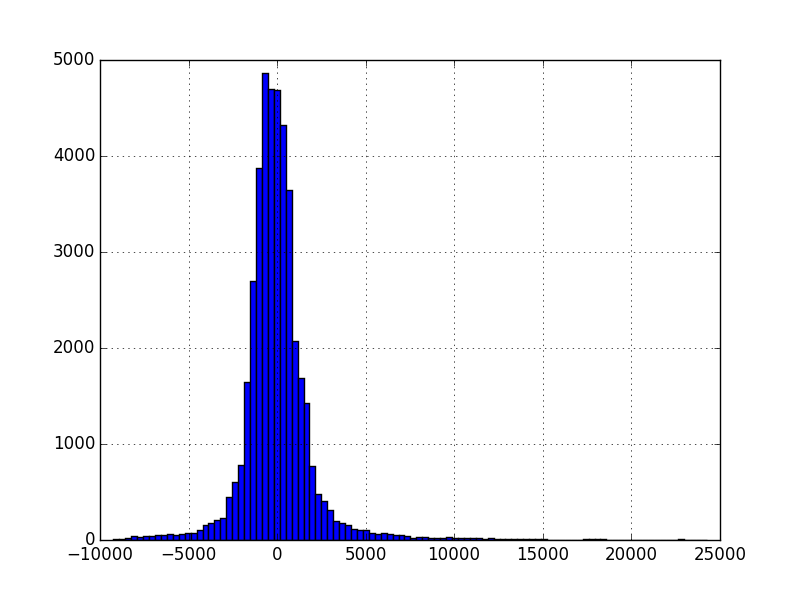
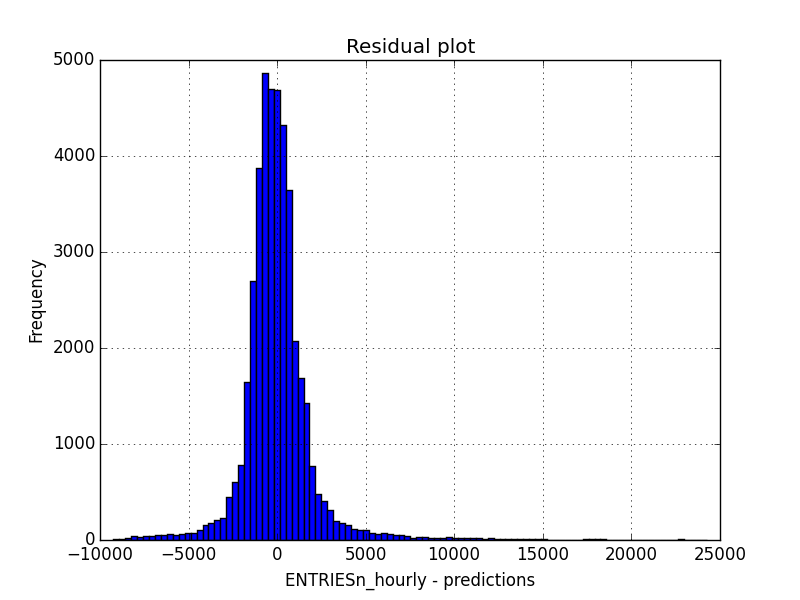
update python scripts

Changed region(s): [[0.3438, 0.93, 0.6875, 0.99], [0.4375, 0.06, 0.5938, 0.09], [0.0312, 0.42, 0.0625, 0.57]]

diff --git a/P3/project3.py b/P3/project3.py
@@ -1,20 +1,269 @@
+#!/usr/bin/env python
+# -*- coding: utf-8 -*-
 import xml.etree.cElementTree as ET
+from lxml import etree
 import pprint
+import re
+import codecs
+import json
+from collections import defaultdict
 
-def count_tags(filename):
-        tags = {}
-        tree = ET.parse(filename)
-        for elem in tree.iter():
-            if elem.tag in tags:
-                tags[elem.tag] = tags[elem.tag] + 1                
+filename='data/utrecht_netherlands.osm'
+filenameS='data/utrecht-map-small.osm'
+filenameS_out='data/utrecht-map-small-cleaned.osm'
+filename_out='data/utrecht-temp.json'
+expected_street_types = ["straat", "laan", "plein", "dreef", "singel", "weg", "baan", "steeg", "dijk", "veld", "hof", "werf", "poort", "markt","gracht","weide",
+                         "plantsoen", "pad", "kade", "polder", "veer", "dam", "park", "berg", "spoor", "hoeve", "kamp", "kwartier", "weerd", "vaart","vlinder"]
+                         
+abbreviations = ["W.Z", "O.Z."]
+
+"""Audit data the osm file."""
+def auditMapData(filename):
+    tags = {}
+    street_types = []
+    postal_codes = []
+    context = ET.iterparse(filename, events=('start','end'))
+    context = iter(context)
+    event, root = context.next()
+    for event, element in context:
+        if event=='end':    
+            if element.tag in tags:
+                tags[element.tag] = tags[element.tag] + 1                
             else:
-                tags[elem.tag] = 1
-        return tags
-
-
-def test():
-
-    tags = count_tags('data/utrecht_map.osm')
-    pprint.pprint(tags)
+                tags[element.tag] = 1
+            
+            if element.tag == "node" or element.tag == "way":
+                for tag in element.iter("tag"):
+                    if is_street_name(tag):
+                        audit_street_type(street_types, tag.attrib['v'])
+                    elif is_postal_code(tag):
+                        audit_postal_code(postal_codes, tag.attrib['v'])        
+        root.clear() #clear needed because otherwise the element remains in memory!
+    del context
+    #for elem in tree.iter():
+    print "Number of main tags:"
+    pprint.pprint(tags)              
+    print "Unexpected street types:", set(street_types)
+    print "Unexpected postal codes:", set(postal_codes)
+    return tags 
+ 
+def is_street_name(elem):
+    return (elem.attrib['k'] == "addr:street")
     
-test
+def is_postal_code(elem):
+    return (elem.attrib['k'] == "postal_code")
+    
+def audit_street_type(street_types, street_name):
+    if not street_name.endswith(tuple(expected_street_types)):
+        street_types.append(street_name)
+
+def audit_postal_code(postal_codes, postal_code):
+    if not postal_code.startswith("35"):
+        postal_codes.append(postal_code)
+        
+"""Clean data the osm file."""
+def cleanMapData(filename):
+    context = ET.iterparse(filename, events=('start','end'))
+    context = iter(context)
+    event, root = context.next()
+    for event, element in context:
+        if event=='end':    
+            if element.tag == "node":
+                for tag in element.iter("tag"):
+                    if is_street_name(tag):
+                        clean_street_name(tag)
+        root.clear() #clear needed because otherwise the element remains in memory!
+    del context
+    print "Unexpected street types:", set(cleaned_streets)
+
+def clean_street_name(tag):
+    street_name = tag.attrib['v']    
+    if "W.Z." in  street_name:
+        tag.attrib['v']  = street_name.replace("W.Z.", "Westzijde") 
+    elif "O.Z." in  street_name:
+        tag.attrib['v']  = street_name.replace("O.Z.", "Oostzijde") 
+        
+"""
+Convert the xml data to a JSON object of the form
+{
+"id": "2406124091",
+"type: "node",
+"visible":"true",
+"created": {
+          "version":"2",
+          "changeset":"17206049",
+          "timestamp":"2013-08-03T16:43:42Z",
+          "user":"linuxUser16",
+          "uid":"1219059"
+        },
+"pos": [41.9757030, -87.6921867],
+"address": {
+          "housenumber": "5157",
+          "postcode": "60625",
+          "street": "North Lincoln Ave"
+        },
+"amenity": "restaurant",
+"cuisine": "mexican",
+"name": "La Cabana De Don Luis",
+"phone": "1 (773)-271-5176"
+}
+
+You have to complete the function 'shape_element'.
+We have provided a function that will parse the map file, and call the function with the element
+as an argument. You should return a dictionary, containing the shaped data for that element.
+We have also provided a way to save the data in a file, so that you could use
+mongoimport later on to import the shaped data into MongoDB. 
+
+Note that in this exercise we do not use the 'update street name' procedures
+you worked on in the previous exercise. If you are using this code in your final
+project, you are strongly encouraged to use the code from previous exercise to 
+update the street names before you save them to JSON. 
+
+In particular the following things should be done:
+- you should process only 2 types of top level tags: "node" and "way"
+- all attributes of "node" and "way" should be turned into regular key/value pairs, except:
+    - attributes in the CREATED array should be added under a key "created"
+    - attributes for latitude and longitude should be added to a "pos" array,
+      for use in geospacial indexing. Make sure the values inside "pos" array are floats
+      and not strings. 
+- if second level tag "k" value contains problematic characters, it should be ignored
+- if second level tag "k" value starts with "addr:", it should be added to a dictionary "address"
+- if second level tag "k" value does not start with "addr:", but contains ":", you can process it
+  same as any other tag.
+- if there is a second ":" that separates the type/direction of a street,
+  the tag should be ignored, for example:
+
+<tag k="addr:housenumber" v="5158"/>
+<tag k="addr:street" v="North Lincoln Avenue"/>
+<tag k="addr:street:name" v="Lincoln"/>
+<tag k="addr:street:prefix" v="North"/>
+<tag k="addr:street:type" v="Avenue"/>
+<tag k="amenity" v="pharmacy"/>
+
+  should be turned into:
+
+{...
+"address": {
+    "housenumber": 5158,
+    "street": "North Lincoln Avenue"
+}
+"amenity": "pharmacy",
+...
+}
+
+- for "way" specifically:
+
+  <nd ref="305896090"/>
+  <nd ref="1719825889"/>
+
+should be turned into
+"node_refs": ["305896090", "1719825889"]
+"""
+
+lower = re.compile(r'^([a-z]|_)*$')
+lower_colon = re.compile(r'^([a-z]|_)*:([a-z]|_)*$')
+problemchars = re.compile(r'[=\+/&<>;\'"\?%#$@\,\. \t\r\n]')
+
+CREATED = [ "version", "changeset", "timestamp", "user", "uid"]
+
+def format_element(element):
+    node = {}
+    if element.tag == "node" or element.tag == "way" :
+        #print element
+        node["id"] = getAttribute(element, "id")
+        node["visible"] = getAttribute(element, "visible")
+        node["type"] = element.tag
+        position = []
+        latitude = getAttribute(element, "lat")
+        if latitude is not None:
+            position.append(float(latitude))
+        longitude = getAttribute(element, "lon")    
+        if longitude is not None:
+            position.append(float(longitude))
+        node["pos"] = position
+        created = {}
+        created["changeset"] = getAttribute(element, "changeset")        
+        created["user"] = getAttribute(element, "user")
+        created["version"] = getAttribute(element, "version")
+        created["uid"] = getAttribute(element, "uid")
+        created["timestamp"] = getAttribute(element, "timestamp")
+        node["created"] = created
+        
+        refs = []
+        ndElements = element.findall("nd")
+        if ndElements is not None:
+            for nd in ndElements:
+                refs.append(getAttribute(nd, "ref"))
+        if len(refs) >0 :
+            node["node_refs"] = refs
+    
+        address = {}
+        tagElements = element.findall("tag")
+        if tagElements is not None:
+            for tagElem in tagElements:
+                if getAttribute(tagElem,"k") == "addr:street":
+                    address["street"] = getAttribute(tagElem, "v")
+                elif getAttribute(tagElem,"k") == "addr:housenumber":
+                    address["housenumber"] = getAttribute(tagElem, "v")
+                elif getAttribute(tagElem,"k") == "addr:postcode":
+                    address["postcode"] = getAttribute(tagElem, "v")  
+                elif getAttribute(tagElem,"k") == "addr:city":
+                    address["city"] = getAttribute(tagElem, "v")
+                elif getAttribute(tagElem,"k") == "amenity":
+                    node["amenity"] = getAttribute(tagElem, "v")                    
+        if bool(address):       
+            node["address"] = address
+        return node
+    else:
+        return None
+    
+def getAttribute(element, attribute):
+     return element.get(attribute)
+
+def convertToJson(file_in, pretty = False):
+    file_out = filename_out.format(file_in)
+    with codecs.open(file_out, "w") as fo:
+        context = ET.iterparse(file_in,events=('start','end'))
+        context = iter(context)
+        event, root = context.next()
+        for event, element in context:
+            if event=='end':
+                el = shape_element(element)
+                if el:
+                    if pretty:
+                        fo.write(json.dumps(el, indent=2)+"\n")
+                    else:
+                        fo.write(json.dumps(el) + "\n")
+            root.clear() #clear needed because otherwise the element remains in memory!
+        del context
+        
+def cleanAndConvertToJson(file_in, pretty = False):
+    file_out = filename_out.format(file_in)
+    with codecs.open(file_out, "w") as fo:
+        context = ET.iterparse(file_in,events=('start','end'))
+        context = iter(context)
+        event, root = context.next()
+        for event, element in context:
+            if event=='end':
+                #clean
+                if element.tag == "node":
+                    for tag in element.iter("tag"):
+                        if is_street_name(tag):
+                            clean_street_name(tag)
+                
+                #format element to it's desired format
+                formatted_element = format_element(element)
+                if formatted_element:
+                    if pretty:
+                        fo.write(json.dumps(formatted_element, indent=2)+"\n")
+                    else:
+                        fo.write(json.dumps(formatted_element) + "\n")
+            root.clear() #clear needed because otherwise the element remains in memory!
+        del context
+    
+#auditMapData(filename)
+#cleanMapData(filenameS)
+#convertToJson(filename)
+cleanAndConvertToJson(filenameS)
+#do queries with pymongo
+

diff --git a/P2/project2.py b/P2/project2.py
@@ -87,6 +87,9 @@ predictions = intercept + np.dot(features, params)
 #print "r-squared:", compute_r_squared(values, predictions)
 
 plt.figure()
+plt.title('Residual plot')
+plt.xlabel('ENTRIESn_hourly - predictions ')
+plt.ylabel('Frequency')
 (turnstile_weather['ENTRIESn_hourly'] - predictions).hist(bins=100)
 
 
